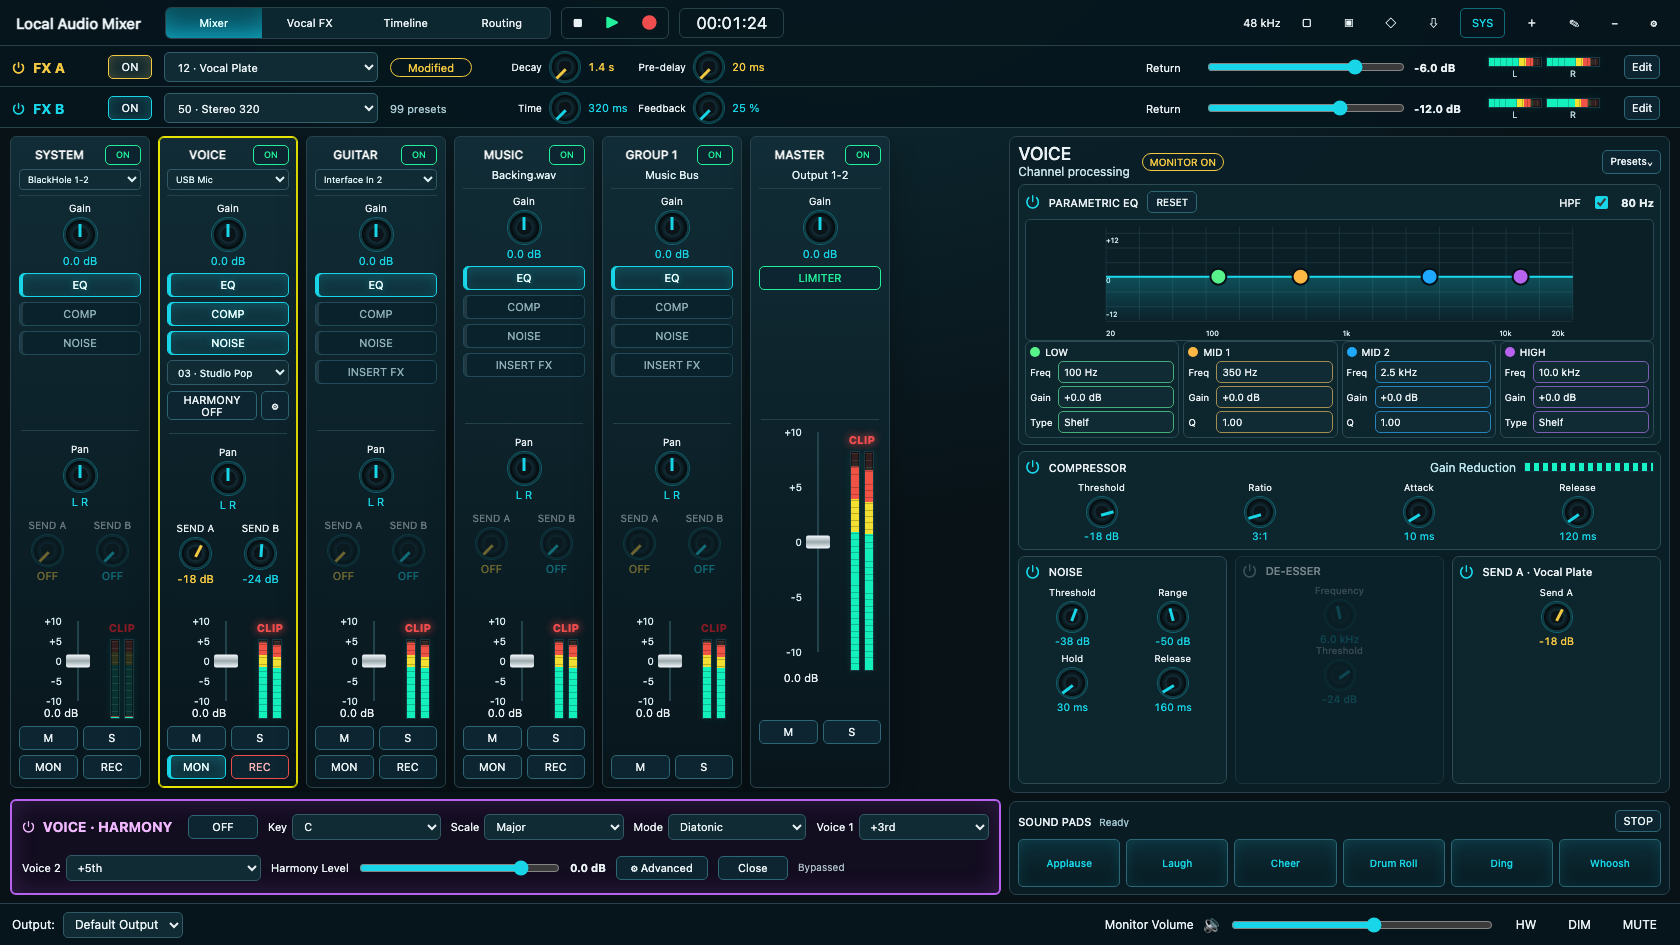
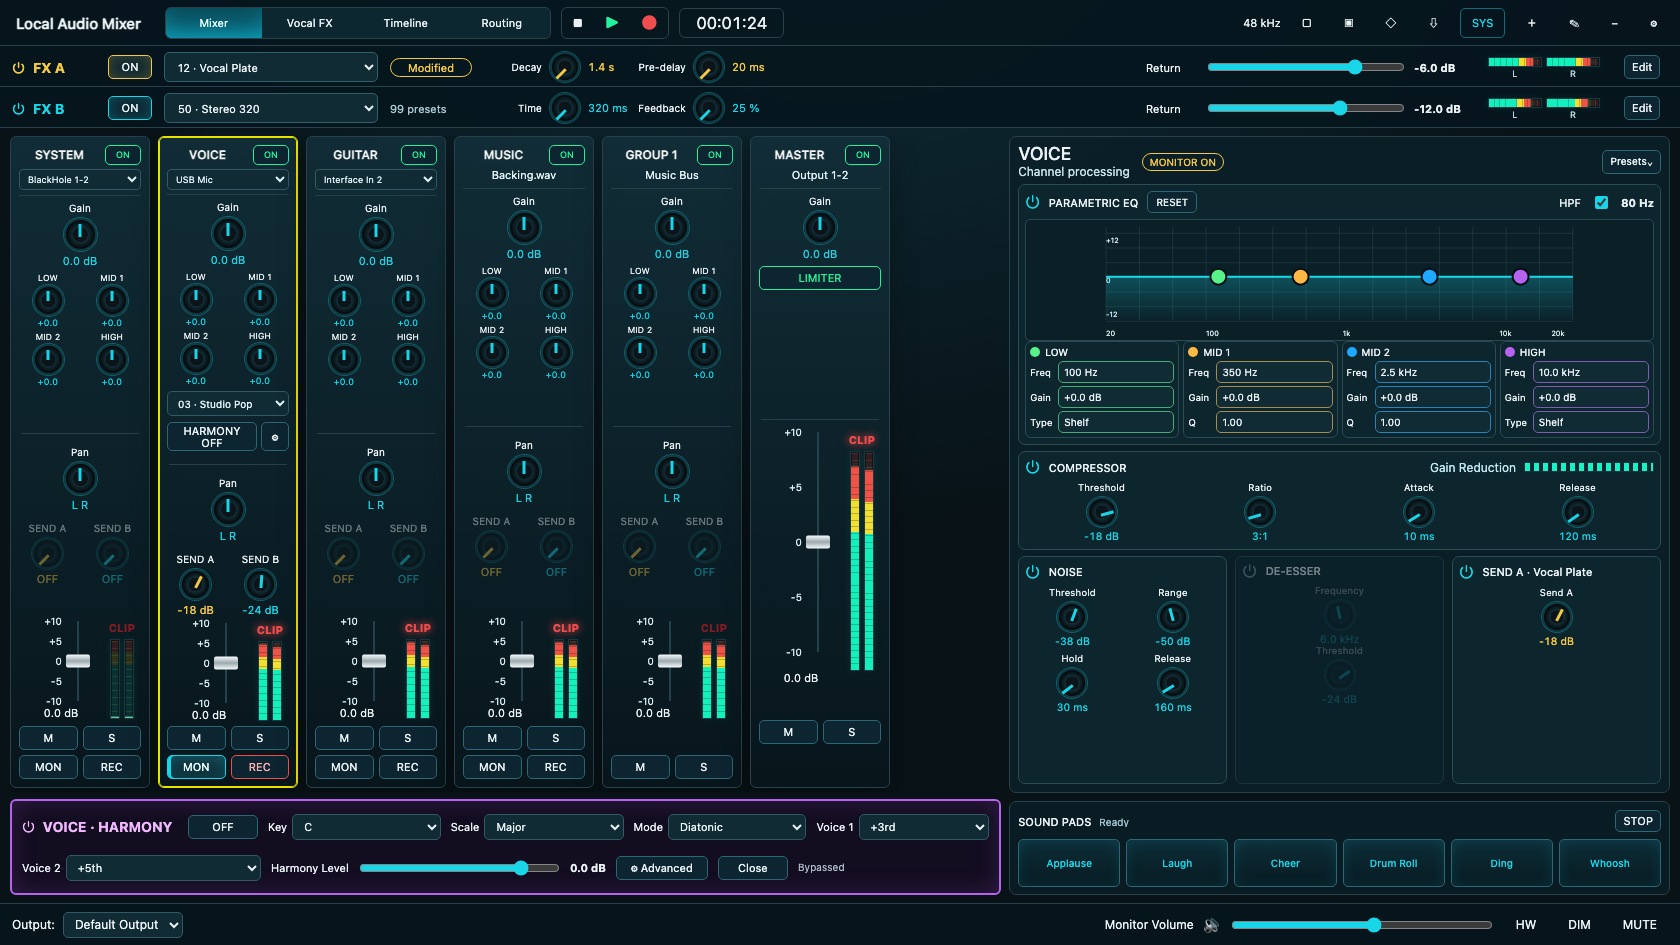
Add direct channel tone controls

diff --git a/apps/desktop/src/features/mixer/components/ChannelStrip.tsx b/apps/desktop/src/features/mixer/components/ChannelStrip.tsx
@@ -1,4 +1,4 @@
-import type { ChannelState, FxUnitId, ProcessorId, VocalFxPreset } from "../../../adapters/MixerControlPort";
+import type { ChannelState, EqBandState, FxUnitId, VocalFxPreset } from "../../../adapters/MixerControlPort";
 import { ClipIndicator } from "../../../components/audio/ClipIndicator";
 import { LevelMeter } from "../../../components/audio/LevelMeter";
 import { RotaryKnob } from "../../../components/audio/RotaryKnob";
@@ -16,19 +16,19 @@ interface ChannelStripProps {
   onTrim(value: number): void;
   onPan(value: number): void;
   onFader(value: number): void;
+  onEqBand(bandId: EqBandState["id"], gainDb: number): void;
   onSend(unitId: FxUnitId, value: number): void;
   onMute(muted: boolean): void;
   onSolo(solo: boolean): void;
   onMonitor(monitor: boolean): void;
   onRecordArm(armed: boolean): void;
-  onProcessor(processorId: ProcessorId, enabled: boolean): void;
   onVocalFxPreset(presetId: string): void;
   onClipReset(): void;
   onHarmonyToggle?(): void;
   onHarmonySettings?(): void;
 }
 
-export function ChannelStrip({ channel, sourceOptions, vocalFxPresetId, vocalFxPresets, onSelect, onEnabled, onSource, onTrim, onPan, onFader, onSend, onMute, onSolo, onMonitor, onRecordArm, onProcessor, onVocalFxPreset, onClipReset, onHarmonyToggle, onHarmonySettings }: ChannelStripProps) {
+export function ChannelStrip({ channel, sourceOptions, vocalFxPresetId, vocalFxPresets, onSelect, onEnabled, onSource, onTrim, onPan, onFader, onEqBand, onSend, onMute, onSolo, onMonitor, onRecordArm, onVocalFxPreset, onClipReset, onHarmonyToggle, onHarmonySettings }: ChannelStripProps) {
   const isMaster = channel.kind === "master";
   const isGroup = channel.kind === "group";
   const meter = channel.enabled ? channel.meter : { left: -60, right: -60, clip: false };
@@ -47,7 +47,7 @@ export function ChannelStrip({ channel, sourceOptions, vocalFxPresetId, vocalFxP
         ) : <span>{channel.source}</span>}
       </header>
       <RotaryKnob label="Gain" value={`${channel.trimDb.toFixed(1)} dB`} numericValue={channel.trimDb} min={-24} max={24} step={0.5} onChange={onTrim} />
-      {isMaster ? <MasterUpperControls /> : <ProcessingButtons channel={channel} vocalFxPresetId={vocalFxPresetId} vocalFxPresets={vocalFxPresets} onProcessor={onProcessor} onVocalFxPreset={onVocalFxPreset} />}
+      {isMaster ? <MasterUpperControls /> : <ChannelToneControls channel={channel} vocalFxPresetId={vocalFxPresetId} vocalFxPresets={vocalFxPresets} onEqBand={onEqBand} onVocalFxPreset={onVocalFxPreset} />}
       {channel.harmonyVisible ? (
         <div className="harmony-shortcut">
           <Button tone="violet" active={channel.harmonyEnabled} onClick={onHarmonyToggle}>HARMONY {channel.harmonyEnabled ? "ON" : "OFF"}</Button>
@@ -74,27 +74,41 @@ export function ChannelStrip({ channel, sourceOptions, vocalFxPresetId, vocalFxP
   );
 }
 
-function ProcessingButtons({ channel, vocalFxPresetId, vocalFxPresets, onProcessor, onVocalFxPreset }: {
+function ChannelToneControls({ channel, vocalFxPresetId, vocalFxPresets, onEqBand, onVocalFxPreset }: {
   channel: ChannelState;
   vocalFxPresetId: string;
   vocalFxPresets: VocalFxPreset[];
-  onProcessor(processorId: ProcessorId, enabled: boolean): void;
+  onEqBand(bandId: EqBandState["id"], gainDb: number): void;
   onVocalFxPreset(presetId: string): void;
 }) {
-  const buttons: Array<{ id: ProcessorId; label: string }> = [
-    { id: "eq", label: "EQ" },
-    { id: "comp", label: "COMP" },
-    { id: "noise", label: "NOISE" }
+  const toneBands: Array<{ id: EqBandState["id"]; label: string }> = [
+    { id: "low", label: "LOW" },
+    { id: "mid1", label: "MID 1" },
+    { id: "mid2", label: "MID 2" },
+    { id: "high", label: "HIGH" }
   ];
-  if (channel.role !== "system" && channel.role !== "vocal") buttons.push({ id: "insertFx", label: "INSERT FX" });
 
   return (
-    <div className="processing-buttons">
-      {buttons.map((button) => (
-        <Button key={button.id} active={channel.processing[button.id]} onClick={() => onProcessor(button.id, !channel.processing[button.id])}>
-          {button.label}
-        </Button>
-      ))}
+    <div className="channel-tone-section">
+      <div className="channel-tone-controls">
+        {toneBands.map((tone) => {
+          const band = channel.eqBands.find((item) => item.id === tone.id);
+          const gainDb = band?.gainDb ?? 0;
+          return (
+            <RotaryKnob
+              key={tone.id}
+              label={tone.label}
+              value={`${gainDb >= 0 ? "+" : ""}${gainDb.toFixed(1)}`}
+              numericValue={gainDb}
+              min={-12}
+              max={12}
+              step={0.5}
+              size="sm"
+              onChange={(value) => onEqBand(tone.id, value)}
+            />
+          );
+        })}
+      </div>
       {channel.role === "vocal" ? (
         <select
           className="channel-insert-preset"
@@ -107,7 +121,6 @@ function ProcessingButtons({ channel, vocalFxPresetId, vocalFxPresets, onProcess
           {vocalFxPresets.map((preset) => <option key={preset.id} value={preset.id}>{preset.name}</option>)}
         </select>
       ) : null}
-      {channel.role === "system" ? <div className="processor-slot-placeholder" aria-hidden="true" /> : null}
     </div>
   );
 }

diff --git a/apps/desktop/src/features/mixer/components/ChannelBank.tsx b/apps/desktop/src/features/mixer/components/ChannelBank.tsx
@@ -1,4 +1,4 @@
-import type { ChannelState, ProcessorId, VocalFxPreset } from "../../../adapters/MixerControlPort";
+import type { ChannelState, EqBandState, VocalFxPreset } from "../../../adapters/MixerControlPort";
 import { ChannelStrip } from "./ChannelStrip";
 
 interface ChannelBankProps {
@@ -12,19 +12,19 @@ interface ChannelBankProps {
   onTrim(channelId: string, value: number): void;
   onPan(channelId: string, value: number): void;
   onFader(channelId: string, value: number): void;
+  onEqBand(channelId: string, bandId: EqBandState["id"], gainDb: number): void;
   onSend(channelId: string, unitId: "fx-a" | "fx-b", value: number): void;
   onMute(channelId: string, muted: boolean): void;
   onSolo(channelId: string, solo: boolean): void;
   onMonitor(channelId: string, monitor: boolean): void;
   onRecordArm(channelId: string, armed: boolean): void;
-  onProcessor(channelId: string, processorId: ProcessorId, enabled: boolean): void;
   onVocalFxPreset(channelId: string, presetId: string): void;
   onClipReset(channelId: string): void;
   onHarmonyToggle(): void;
   onHarmonySettings(channelId: string): void;
 }
 
-export function ChannelBank({ channels, sourceOptions, vocalFxPresetId, vocalFxPresets, onSelect, onEnabled, onSource, onTrim, onPan, onFader, onSend, onMute, onSolo, onMonitor, onRecordArm, onProcessor, onVocalFxPreset, onClipReset, onHarmonyToggle, onHarmonySettings }: ChannelBankProps) {
+export function ChannelBank({ channels, sourceOptions, vocalFxPresetId, vocalFxPresets, onSelect, onEnabled, onSource, onTrim, onPan, onFader, onEqBand, onSend, onMute, onSolo, onMonitor, onRecordArm, onVocalFxPreset, onClipReset, onHarmonyToggle, onHarmonySettings }: ChannelBankProps) {
   return (
     <section className="channel-bank">
       {channels.map((channel) => (
@@ -40,12 +40,12 @@ export function ChannelBank({ channels, sourceOptions, vocalFxPresetId, vocalFxP
           onTrim={(value) => onTrim(channel.id, value)}
           onPan={(value) => onPan(channel.id, value)}
           onFader={(value) => onFader(channel.id, value)}
+          onEqBand={(bandId, gainDb) => onEqBand(channel.id, bandId, gainDb)}
           onSend={(unitId, value) => onSend(channel.id, unitId, value)}
           onMute={(muted) => onMute(channel.id, muted)}
           onSolo={(solo) => onSolo(channel.id, solo)}
           onMonitor={(monitor) => onMonitor(channel.id, monitor)}
           onRecordArm={(armed) => onRecordArm(channel.id, armed)}
-          onProcessor={(processorId, enabled) => onProcessor(channel.id, processorId, enabled)}
           onVocalFxPreset={(presetId) => onVocalFxPreset(channel.id, presetId)}
           onClipReset={() => onClipReset(channel.id)}
           onHarmonyToggle={onHarmonyToggle}

diff --git a/apps/desktop/src/adapters/preview/PreviewAdapter.ts b/apps/desktop/src/adapters/preview/PreviewAdapter.ts
@@ -230,21 +230,26 @@ export class PreviewAdapter implements MixerControlPort {
   }
 
   updateEqBand(bandId: EqBandState["id"], field: "freqHz" | "gainDb" | "qValue" | "type", value: number | string): void {
-    const updatedBands = this.snapshot.eqBands.map((band) => {
-      if (band.id !== bandId) return band;
-      if (field === "type") return { ...band, type: String(value) };
-
-      const next = { ...band, [field]: Number(value) };
-      next.freqHz = clamp(next.freqHz, 20, 20_000);
-      next.gainDb = clamp(next.gainDb, -12, 12);
-      if (next.qValue !== undefined) next.qValue = clamp(next.qValue, 0.1, 12);
-      return formatEqBand(next);
-    });
+    const updatedBands = updateEqBands(this.snapshot.eqBands, bandId, field, value);
     this.snapshot.eqBands = updatedBands;
     this.snapshot.channels = this.snapshot.channels.map((channel) => channel.id === this.snapshot.selectedChannelId ? {
       ...channel,
+      processing: { ...channel.processing, eq: true },
       eqBands: structuredClone(updatedBands)
     } : channel);
+  }
+
+  setChannelEqBand(channelId: string, bandId: EqBandState["id"], field: "freqHz" | "gainDb" | "qValue" | "type", value: number | string): void {
+    this.snapshot.channels = this.snapshot.channels.map((channel) => {
+      if (channel.id !== channelId) return channel;
+      const eqBands = updateEqBands(channel.eqBands, bandId, field, value);
+      if (channel.id === this.snapshot.selectedChannelId) this.snapshot.eqBands = structuredClone(eqBands);
+      return {
+        ...channel,
+        processing: { ...channel.processing, eq: true },
+        eqBands
+      };
+    });
   }
 
   resetEqBands(): void {
@@ -421,6 +426,19 @@ function selectedSlotForPreset(presetId: string, fallback: string) {
   if (enabled.includes("saturation")) return "saturation";
   if (enabled.includes("formant_shift")) return "formant-shift";
   return fallback;
+}
+
+function updateEqBands(bands: EqBandState[], bandId: EqBandState["id"], field: "freqHz" | "gainDb" | "qValue" | "type", value: number | string) {
+  return bands.map((band) => {
+    if (band.id !== bandId) return band;
+    if (field === "type") return { ...band, type: String(value) };
+
+    const next = { ...band, [field]: Number(value) };
+    next.freqHz = clamp(next.freqHz, 20, 20_000);
+    next.gainDb = clamp(next.gainDb, -12, 12);
+    if (next.qValue !== undefined) next.qValue = clamp(next.qValue, 0.1, 12);
+    return formatEqBand(next);
+  });
 }
 
 function clamp(value: number, min: number, max: number) {

diff --git a/apps/desktop/src/features/mixer/MixerPage.tsx b/apps/desktop/src/features/mixer/MixerPage.tsx
@@ -584,6 +584,7 @@ export function MixerPage() {
             onTrim={(id, value) => refreshLiveProcessing(() => adapter.setChannelTrim(id, value))}
             onPan={(id, value) => refreshLiveProcessing(() => adapter.setChannelPan(id, value))}
             onFader={(id, value) => refreshLiveProcessing(() => adapter.setChannelFader(id, value))}
+            onEqBand={(id, bandId, gainDb) => refreshLiveProcessing(() => adapter.setChannelEqBand(id, bandId, "gainDb", gainDb))}
             onSend={(id, unitId, value) => refreshLiveProcessing(() => adapter.setChannelSend(id, unitId, value))}
             onMute={(id, muted) => {
               const nextSnapshot = refresh(() => adapter.setChannelMute(id, muted));
@@ -595,18 +596,6 @@ export function MixerPage() {
               void runChannelMonitor(id, monitor);
             }}
             onRecordArm={(id, armed) => refresh(() => adapter.setChannelRecordArm(id, armed))}
-            onProcessor={(id, processorId, enabled) => {
-              const channel = adapter.getSnapshot().channels.find((item) => item.id === id);
-              if (channel?.role === "system" && processorId === "insertFx") return;
-              refreshLiveProcessing(() => adapter.setChannelProcessor(id, processorId, enabled));
-              if (processorId === "insertFx" && enabled) {
-                refresh(() => {
-                  adapter.selectChannel(id);
-                  adapter.applyVocalFxPreset(adapter.getSnapshot().vocalFx.activePresetId);
-                });
-                setVocalFxOpen(true);
-              }
-            }}
             onVocalFxPreset={(id, presetId) => {
               const enabled = presetId !== "default";
               refreshLiveProcessing(() => {

diff --git a/apps/desktop/src/styles/app.css b/apps/desktop/src/styles/app.css
@@ -82,6 +82,13 @@
 .processing-buttons .ui-button.is-active { text-shadow: 0 0 7px rgba(24, 214, 231, 0.36); }
 .channel-insert-preset { width: 100%; min-width: 0; min-height: 25px; color: #dff4f8; background: #102b34; border: 1px solid #315966; border-radius: 5px; padding: 0 6px; font-size: 10px; font-weight: 420; }
 .channel-insert-preset:focus { outline: 1px solid var(--cyan); outline-offset: 1px; }
+.channel-tone-section { display: grid; gap: 5px; }
+.channel-tone-controls { display: grid; grid-template-columns: repeat(2, minmax(0, 1fr)); gap: 4px 6px; }
+.channel-tone-controls .rotary { min-width: 0; }
+.channel-tone-controls .rotary-label { font-size: 8.5px; margin-bottom: 2px; }
+.channel-tone-controls .rotary-face { width: 26px; height: 26px; }
+.channel-tone-controls .rotary-tick { height: 10px; transform-origin: 50% 10px; }
+.channel-tone-controls .rotary-value { font-size: 9px; margin-top: 2px; }
 .processor-slot-placeholder { min-height: 24px; visibility: hidden; }
 .master-upper { display: grid; grid-template-rows: 24px 1fr; gap: 4px; min-height: 140px; }
 .master-upper-spacer { min-height: 101px; }

diff --git a/tests/ui/visual.visual.ts b/tests/ui/visual.visual.ts
@@ -46,9 +46,10 @@ test("preview controls mutate visible mixer state", async ({ page }) => {
   await expect(page.getByText("MONITOR ON")).toHaveCount(0);
   await voiceStrip.getByRole("button", { name: "REC", exact: true }).click();
   await expect(voiceStrip.getByRole("button", { name: "REC", exact: true })).not.toHaveClass(/is-active/);
-  await expect(voiceStrip.getByRole("button", { name: "EQ", exact: true })).toHaveClass(/is-active/);
-  await voiceStrip.getByRole("button", { name: "NOISE", exact: true }).click();
-  await expect(voiceStrip.getByRole("button", { name: "NOISE", exact: true })).not.toHaveClass(/is-active/);
+  await voiceStrip.locator('input[aria-label="LOW"]').fill("4");
+  await expect(voiceStrip.getByText("+4.0")).toBeVisible();
+  await voiceStrip.locator('input[aria-label="MID 1"]').fill("-2");
+  await expect(voiceStrip.getByText("-2.0")).toBeVisible();
   await voiceStrip.getByLabel("Voice preset").selectOption("default");
   await expect(voiceStrip.getByLabel("Voice preset")).toHaveValue("default");
   await voiceStrip.getByLabel("Voice preset").selectOption("voice-12-robot");

diff --git a/tests/ui/preview-adapter.test.ts b/tests/ui/preview-adapter.test.ts
@@ -134,6 +134,7 @@ describe("PreviewAdapter", () => {
 
     expect(adapter.getSnapshot().eqBands.find((band) => band.id === "low")?.gain).toBe("+0.0 dB");
     adapter.setChannelProcessor("guitar", "eq", false);
+    adapter.setChannelEqBand("guitar", "mid2", "gainDb", -3.5);
 
     const snapshot = adapter.getSnapshot();
     const voice = snapshot.channels.find((channel) => channel.id === "voice");
@@ -141,8 +142,9 @@ describe("PreviewAdapter", () => {
     expect(voice?.processing.noise).toBe(false);
     expect(voice?.processing.deEsser).toBe(true);
     expect(voice?.eqBands.find((band) => band.id === "low")?.gain).toBe("+8.0 dB");
-    expect(guitar?.processing.eq).toBe(false);
+    expect(guitar?.processing.eq).toBe(true);
     expect(guitar?.eqBands.find((band) => band.id === "low")?.gain).toBe("+0.0 dB");
+    expect(guitar?.eqBands.find((band) => band.id === "mid2")?.gain).toBe("-3.5 dB");
   });
 
   it("resets selected channel EQ bands to the neutral music start point", () => {

diff --git a/apps/desktop/src/adapters/MixerControlPort.ts b/apps/desktop/src/adapters/MixerControlPort.ts
@@ -192,6 +192,7 @@ export interface MixerControlPort {
   setFxEnabled(unitId: FxUnitId, enabled: boolean): void;
   setFxReturn(unitId: FxUnitId, valueDb: number): void;
   setFxProgramMacro(unitId: FxUnitId, macro: "macro1" | "macro2", value: string): void;
+  setChannelEqBand(channelId: string, bandId: EqBandState["id"], field: "freqHz" | "gainDb" | "qValue" | "type", value: number | string): void;
   updateEqBand(bandId: EqBandState["id"], field: "freqHz" | "gainDb" | "qValue" | "type", value: number | string): void;
   resetEqBands(): void;
   resetFxProgram(unitId: FxUnitId): void;

diff --git a/docs/progress.md b/docs/progress.md
@@ -3841,3 +3841,33 @@ Validation:
 
 Known limitations:
 - Manual live-mic listening confirmation of every channel-strip preset selection is `NOT_RUN`; automated coverage verifies UI state and native sync path.
+
+### Phase19 UX Checkpoint — Add Direct Four-Band Channel Tone Controls
+
+Changed files:
+- `apps/desktop/src/adapters/MixerControlPort.ts`: added channel-scoped EQ band updates for controls that are not tied to the selected inspector channel.
+- `apps/desktop/src/adapters/preview/PreviewAdapter.ts`: implemented `setChannelEqBand` and factored EQ band formatting/clamping into a reusable helper.
+- `apps/desktop/src/features/mixer/components/ChannelBank.tsx`: passed channel-scoped tone updates into each strip.
+- `apps/desktop/src/features/mixer/components/ChannelStrip.tsx`: replaced per-strip EQ/COMP/NOISE processor buttons with direct `LOW`, `MID 1`, `MID 2`, and `HIGH` gain knobs.
+- `apps/desktop/src/features/mixer/MixerPage.tsx`: wired strip tone knobs to native sync via channel EQ band payloads.
+- `apps/desktop/src/styles/app.css`: added compact tone-knob layout styles for channel strips.
+- `tests/ui/preview-adapter.test.ts`, `tests/ui/visual.visual.ts`: covered channel-scoped tone edits and updated visual interaction checks.
+- `docs/progress.md`: recorded verification evidence.
+
+Implemented behavior:
+- Mixer channel strips now expose direct four-band tone controls instead of requiring the right-side EQ panel for common tonal changes.
+- Moving a strip tone knob enables that channel's native EQ processor and updates the corresponding LOW/MID 1/MID 2/HIGH band in the existing native graph payload.
+- Per-strip EQ/COMP buttons are no longer the primary mixer workflow.
+
+Validation:
+- command: `npm run typecheck`
+- exit/result: `0`; TypeScript passed.
+- command: `npm run test:ui`
+- exit/result: `0`; Vitest 50/50 passed.
+- command: `npm run test:visual`
+- exit/result: `0`; Playwright visual suite 6/6 passed.
+- command: `npm run verify`
+- exit/result: `0`; plan, file-size, architecture, typecheck, Vitest 50/50, native CTest 43/43, engine self-test, device enumeration smoke, protocol smoke, UI build, and Electron main/preload build passed.
+
+Known limitations:
+- This checkpoint does not yet implement true simultaneous native live capture/mixing for SYSTEM plus VOICE. The current persistent monitor path is still single-source; full multi-source native mixer monitoring remains required for the user's target workflow.
